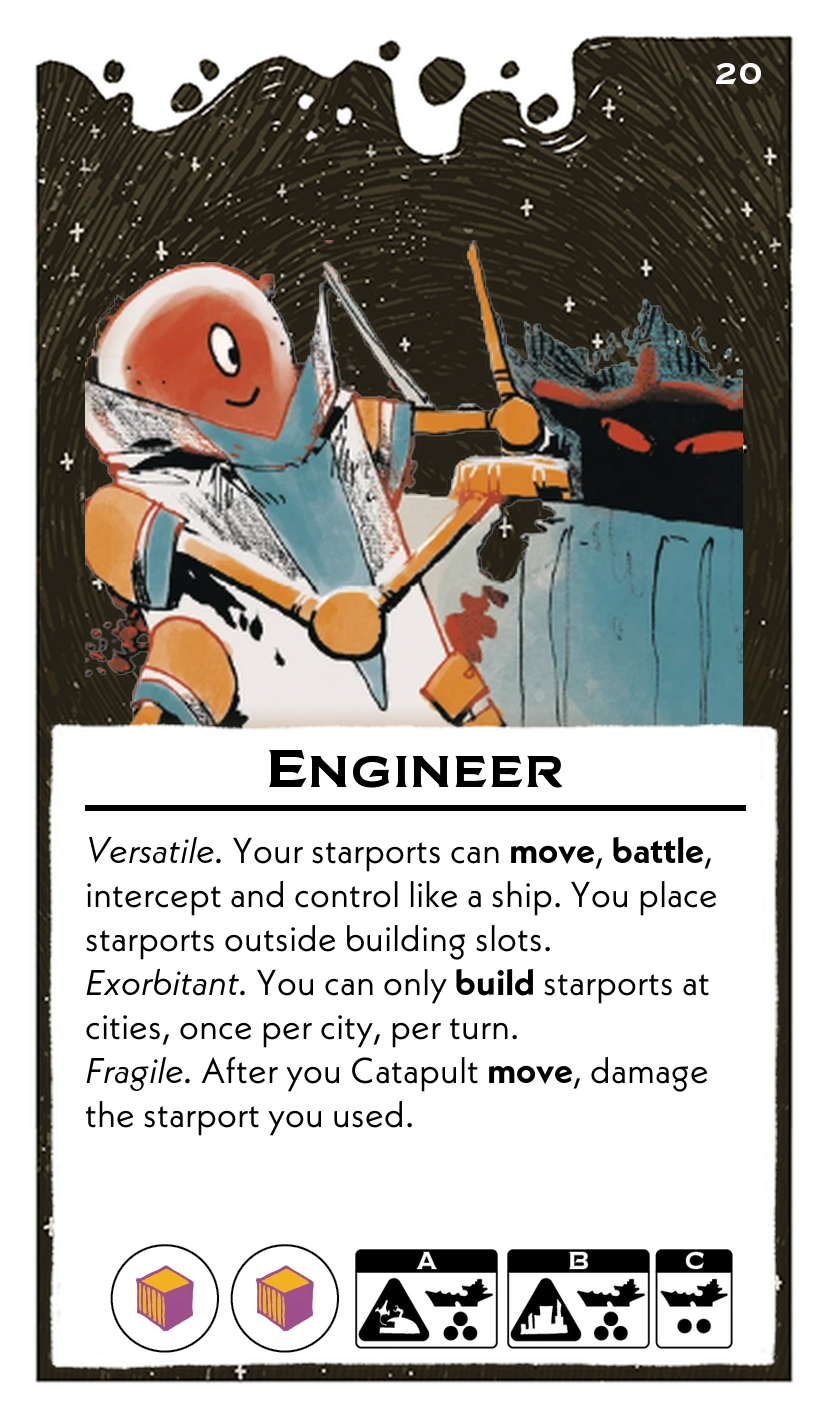
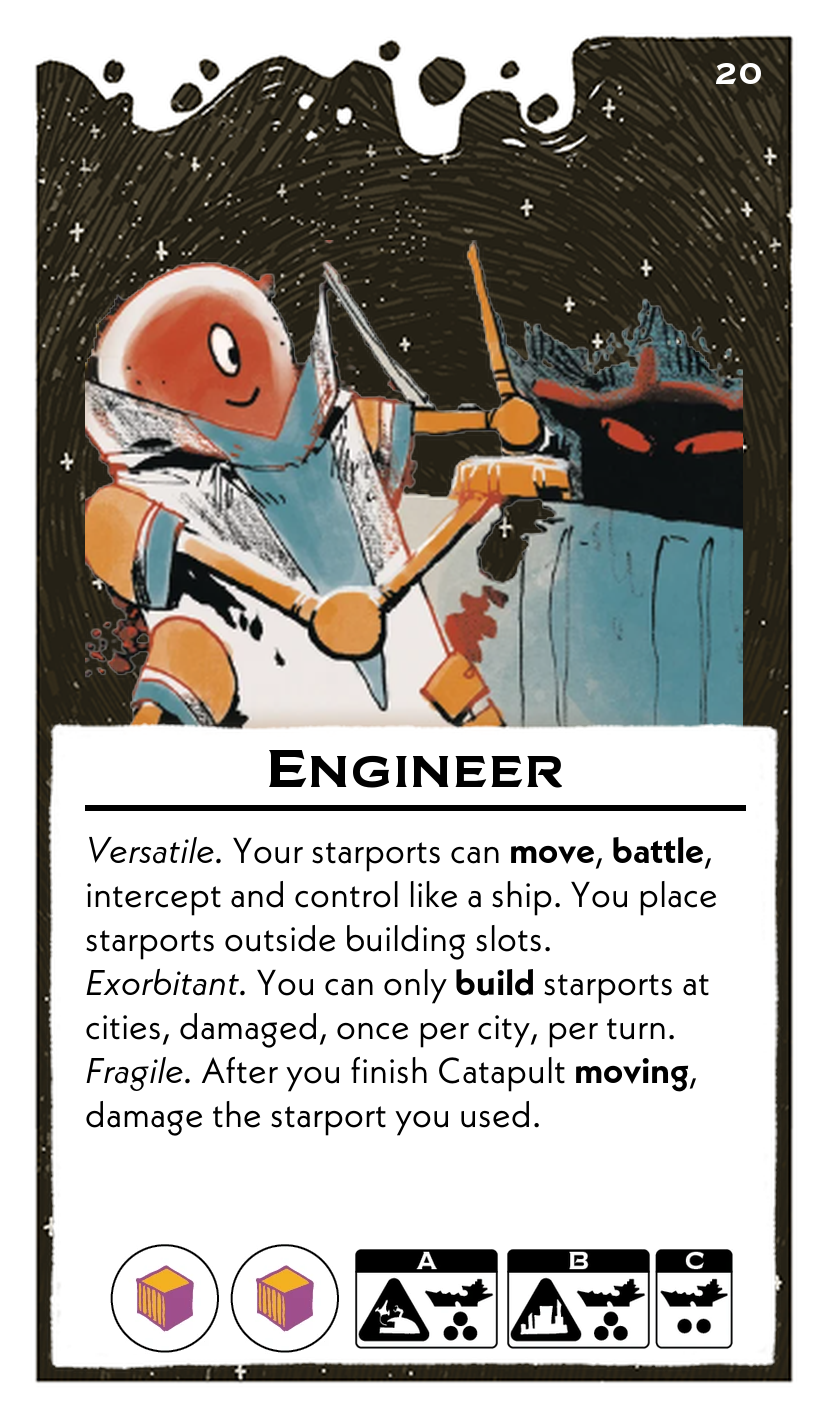
engineer damaged, magician 2 cities

Changed region(s): [[0.0907, 0.7142, 0.8464, 0.8073]]

diff --git a/scripts/leadersFormatted.py b/scripts/leadersFormatted.py
@@ -310,8 +310,8 @@ leaders = [
         "name": "Engineer",
         "abilities": (
             "*Versatile.* Your starports can **move**, **battle**, intercept and control like a ship. You place starports outside building slots.\n"
-            "*Exorbitant.* You can only **build** starports at cities, once per city, per turn.\n"
-            "*Fragile.* After you Catapult **move**, damage the starport you used."
+            "*Exorbitant.* You can only **build** starports at cities, damaged, once per city, per turn.\n"
+            "*Fragile.* After you finish Catapult **moving**, damage the starport you used."
         ),
         "resources": ["Material", "Material"],
         "setup": {
@@ -331,7 +331,7 @@ leaders = [
         "resources": ["Psionic", "Material"],
         "setup": {
             "A": {"ships": 3, "building": "city"},
-            "B": {"ships": 3, "building": "starport"},
+            "B": {"ships": 3, "building": "city"},
             "C": {"ships": 3, "building": "None"}
         },
         "body_font_size": 18
